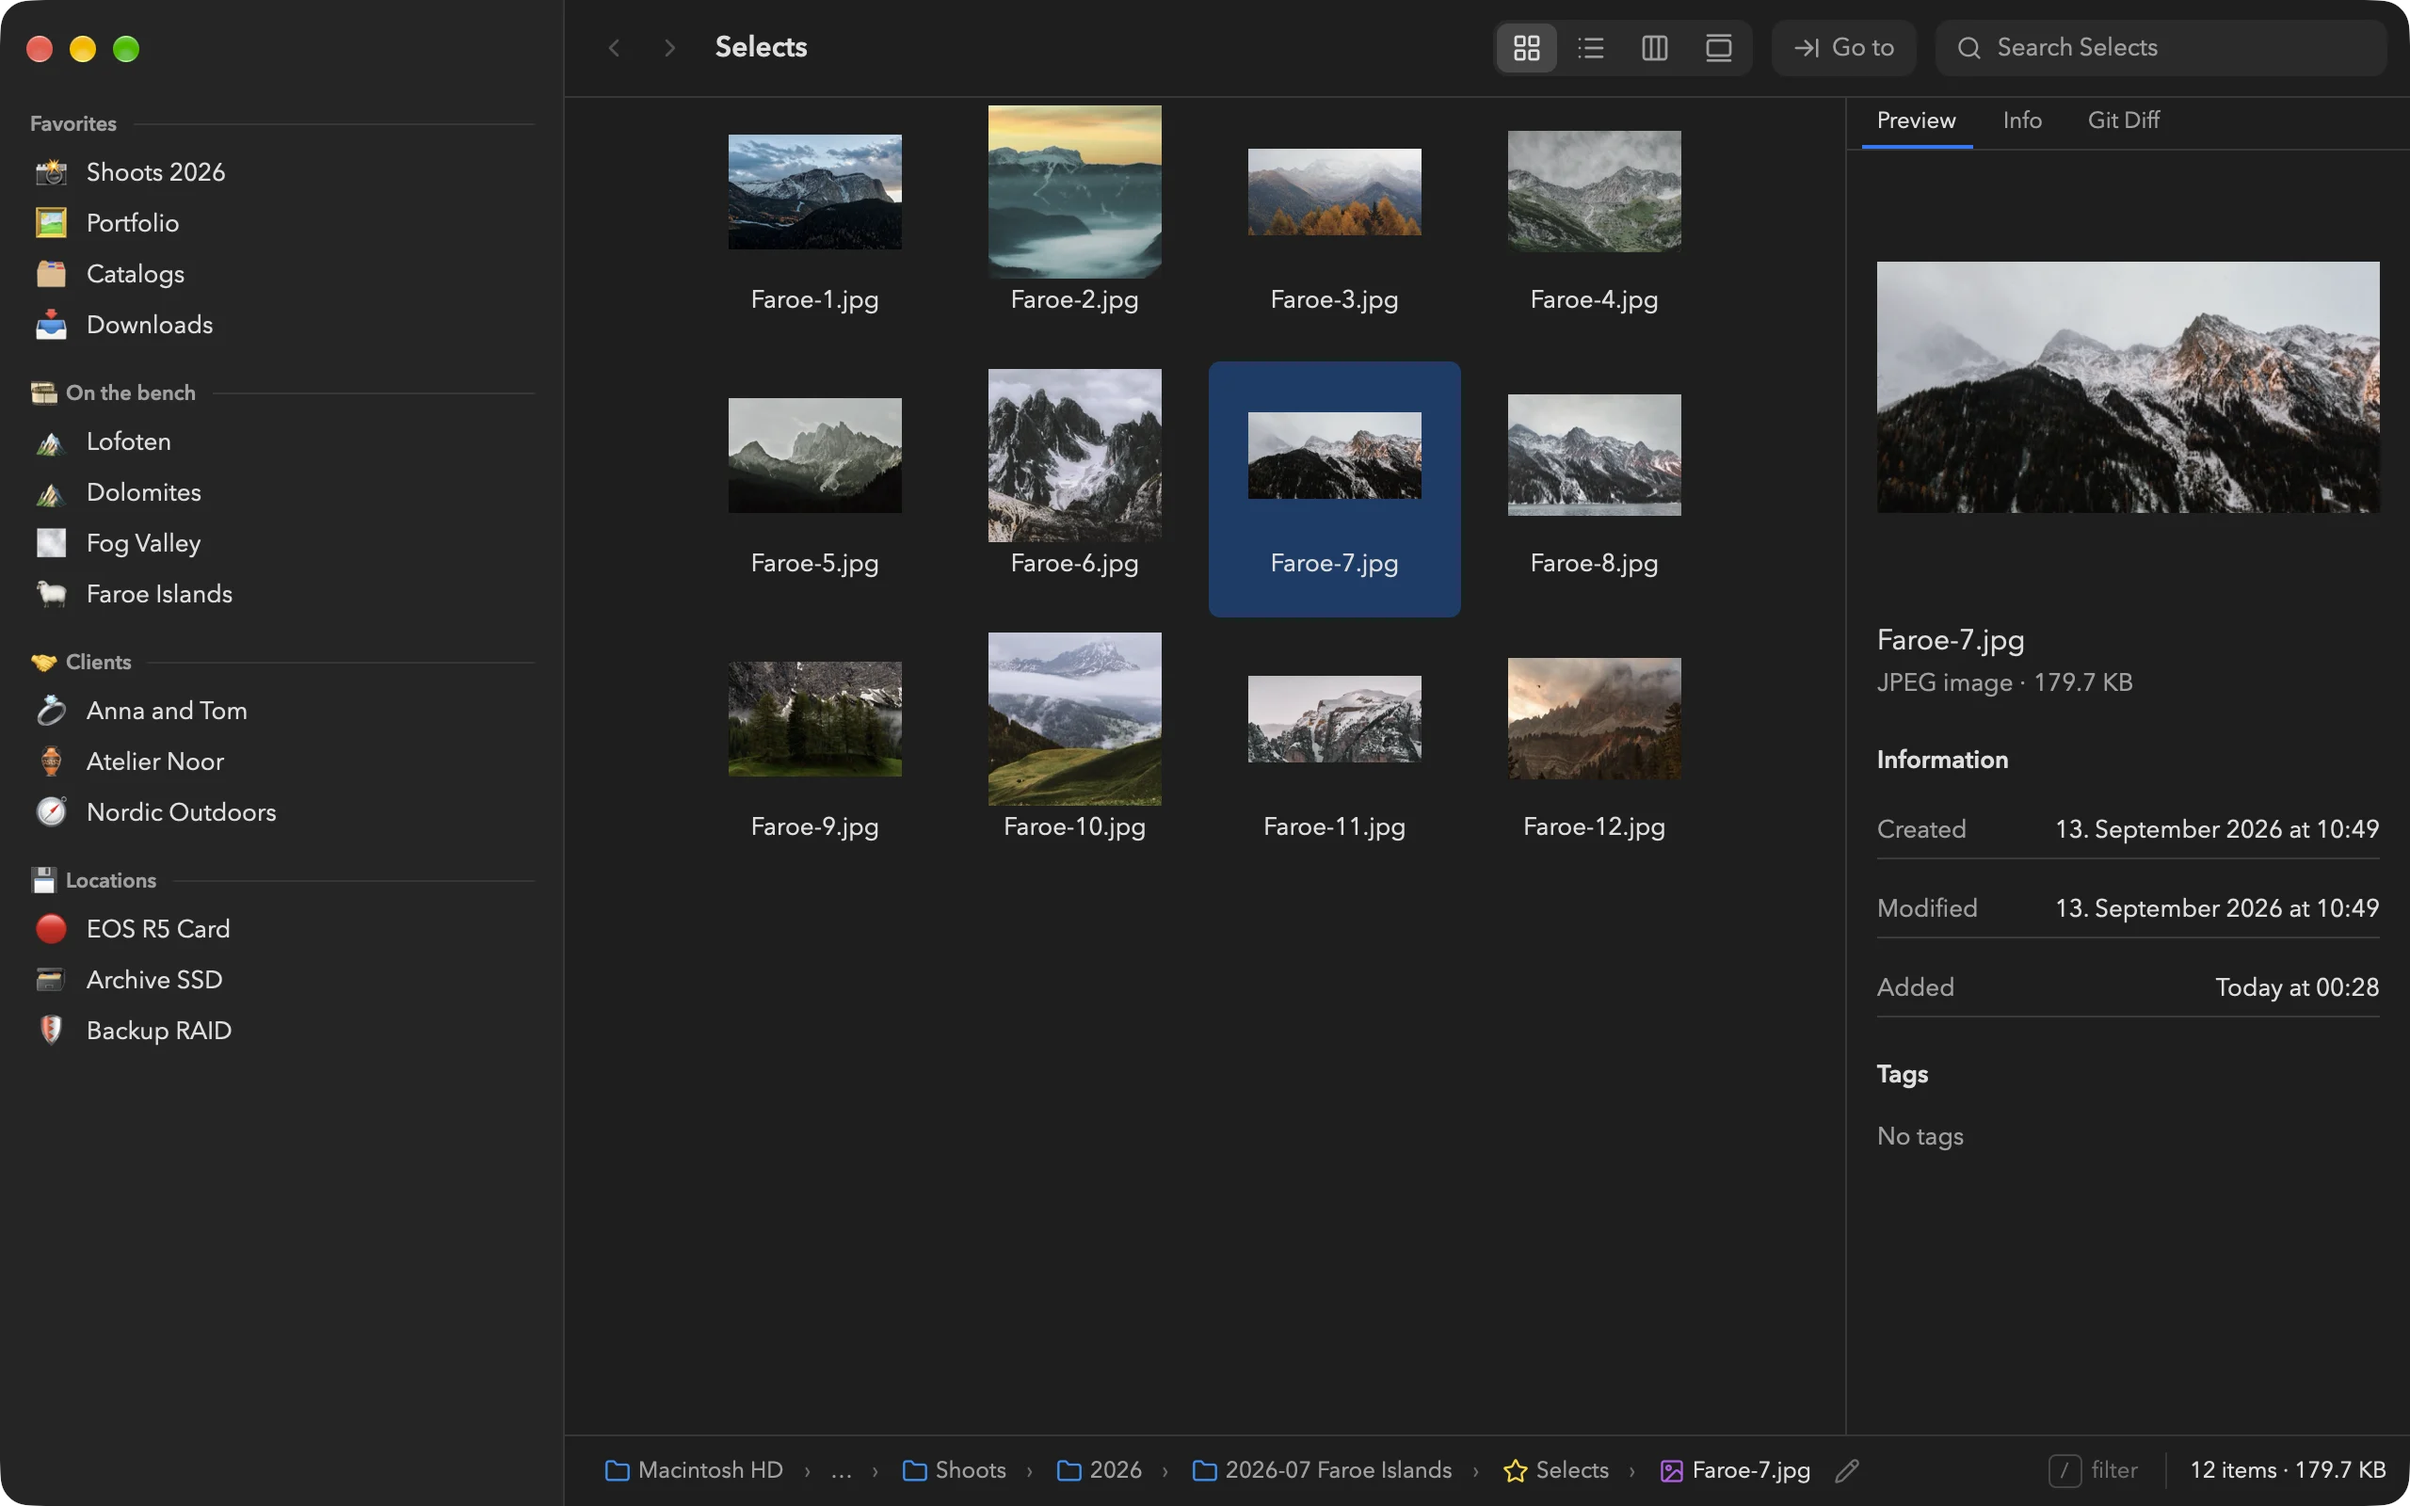
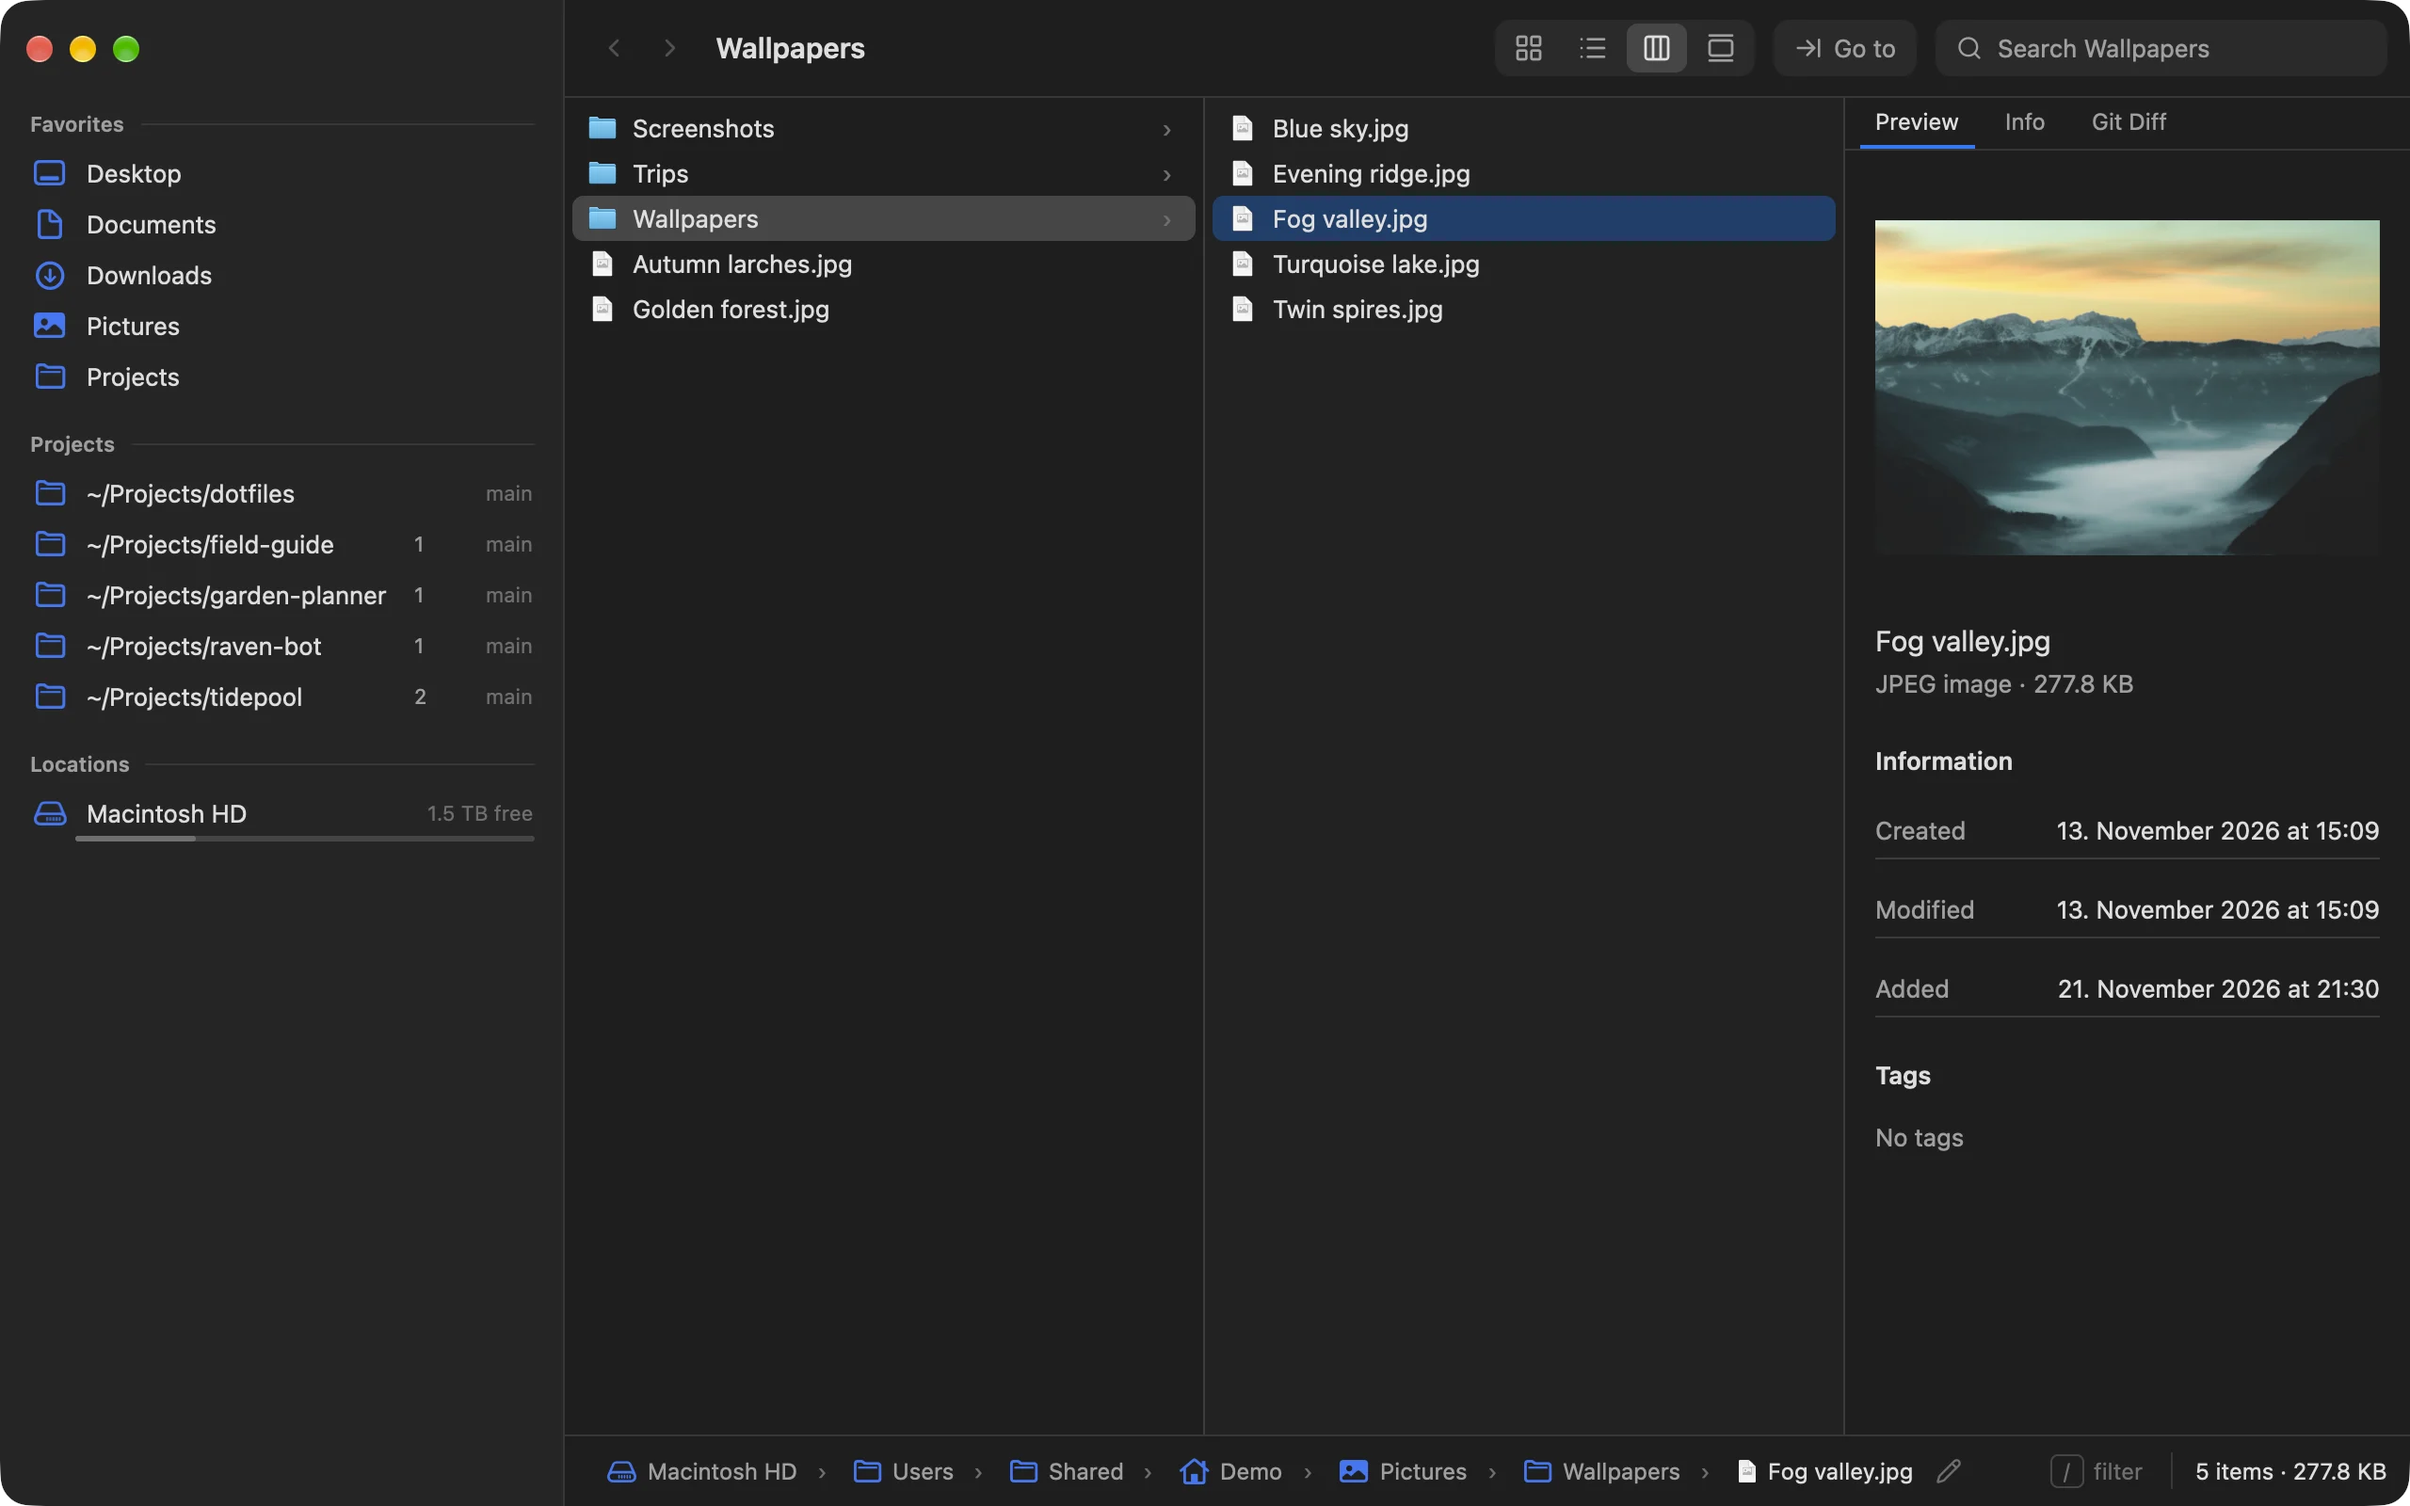
Hero shot: the plain demo home in the Finder themes
The hero was the photographer persona (groups, emoji, a pack); it now
matches the rest of the page: column view through Pictures › Wallpapers
with a photo in the preview. Type-to-select picks the rows, so a
remembered selection can't move the shot.

diff --git a/docs/index.html b/docs/index.html
@@ -253,7 +253,7 @@ footer nav { gap: 22px; }
       <div class="hero-shot">
         <picture>
           <source srcset="media/hero-dark.webp" media="(prefers-color-scheme: dark)">
-          <img class="shot" src="media/hero-light.webp" width="2560" height="1600" alt="Crow in column view: the Pictures folder, a Wallpapers subfolder and a photo of a snowy forest in the preview pane.">
+          <img class="shot" src="media/hero-light.webp" width="2560" height="1600" alt="Crow in column view: the Pictures folder, its Wallpapers subfolder and a photo of a fog-filled valley in the preview pane.">
         </picture>
         <img class="peek" src="media/icon-256.png" alt="" width="112" height="112">
       </div>
